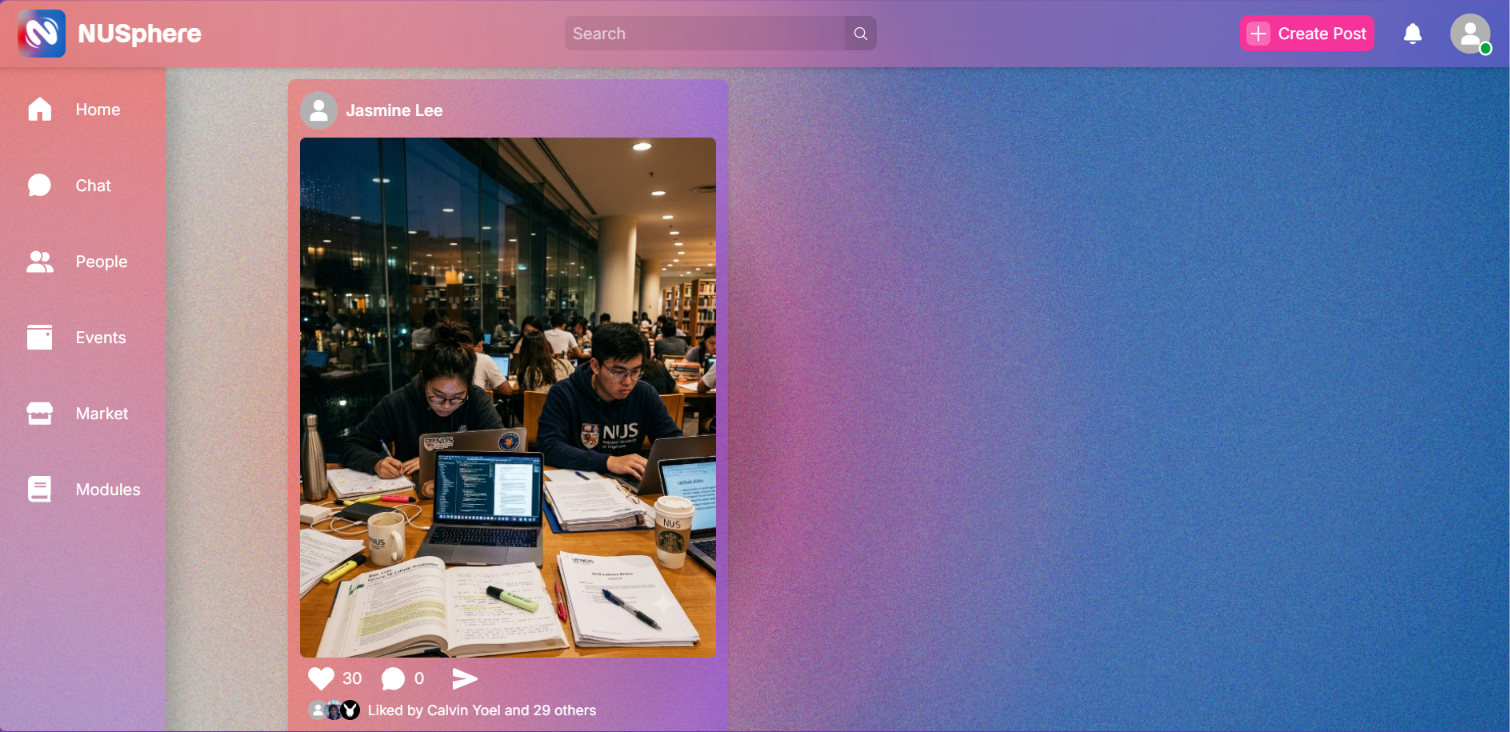
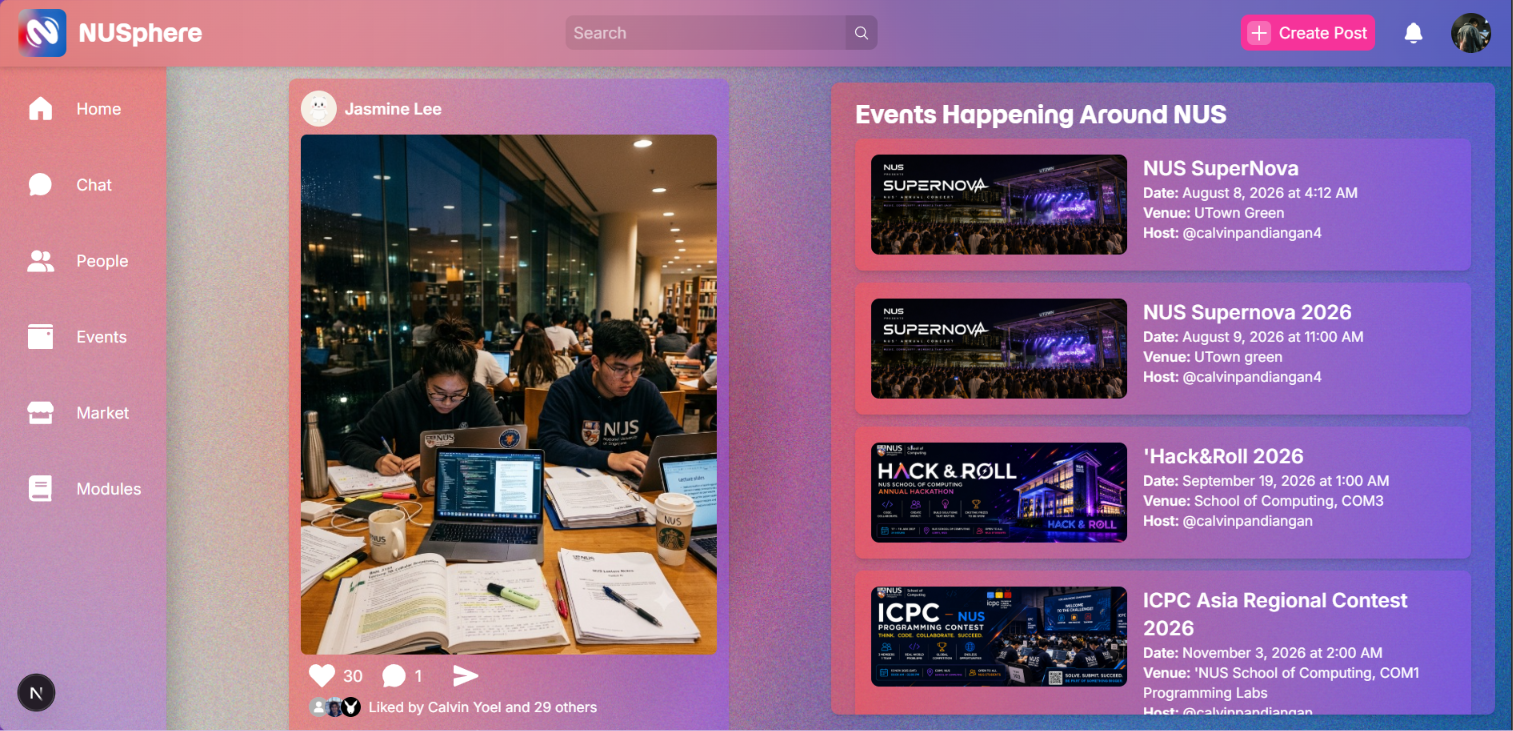
Added documentation

diff --git a/src/app/(main)/post/[postId]/Interactive.tsx b/src/app/(main)/post/[postId]/Interactive.tsx
@@ -64,7 +64,8 @@ export default function Interactive({imageUrl, likesCount, commentsCount, postId
             user_id: number,
             content: string,
             first_name: string,
-            last_name: string
+            last_name: string,
+            pfp_url: string
         }
         type postCommentData = {
             message: string,
@@ -76,7 +77,7 @@ export default function Interactive({imageUrl, likesCount, commentsCount, postId
         if (postCommentData?.message != undefined && postCommentData.message == "Comment successfully posted") {
             const commentReturn: postComment = postCommentData?.comment;
             const commentState: commentData = {id: commentReturn?.id, post_id: commentReturn?.post_id, 
-                user_id: commentReturn?.user_id, content: commentReturn?.content, first_name: commentReturn?.first_name, last_name: commentReturn?.last_name, pfp_url: imageUrl};
+                user_id: commentReturn?.user_id, content: commentReturn?.content, first_name: commentReturn?.first_name, last_name: commentReturn?.last_name, pfp_url: commentReturn?.pfp_url};
 
             if (textAreaRef?.current?.value != undefined) {
                 textAreaRef.current.value = "";

diff --git a/README.md b/README.md
@@ -31,7 +31,7 @@ Users can create listings for new or used everyday university items on the marke
 Users can join dedicated discussion spaces for each module to ask questions, share notes, and discuss lectures, tutorials, and exams with others taking the same course.
 
 ## Timeline
-Feature 5, 6, 7 will be completed by Milestone 3 or Splashdown.
+Final UI/UX Polishing and proper backend logic refurnishing will be done before Splashdown.
 
 ## Tech Stack
 1. Frontend: Next.js/React deployed with Vercel
@@ -93,14 +93,226 @@ NUSphere follows a `Feature Branching Strategy`, where each new feature or bug f
 ![Create Event Page](./screenshots/Create-events.png)
 ### Event Attendance
 ![Event Attendance Page](./screenshots/events-attendance.png)
+## Modules Page
+![Modules Page](./screenshots/Modules-page.png)
+## Modules Thread Page
+![Modules Thread Page](./screenshots/Module-thread.png)
+## Thread Reply
+![Thread Reply](./screenshots/Thread.png)
+## Create Thread
+![Create Thread](./screenshots/Create-thread.png)
+<br>
+<br>
+# NUSphere Backend
+
+## Folder structure
+
+```text
+src/
+  app.js                 # Express app setup and route mounting
+  server.js              # Application entry point
+  controllers/           # Request handlers for each feature
+  middleware/            # Validation and auth middleware
+  routes/                # API route definitions
+  services/              # Business logic for each feature
+  db/                    # Database connection setup
+  utils/                 # Shared helper functions
+  socket/                # Socket.IO-related code
+tests/                   # Test files and test helpers
+```
+
+## API documentation
+
+All protected endpoints require a valid authentication token in the request cookie unless noted otherwise.
+
+### Authentication
+- POST /auth/login: Log in a user with a username and password.
+- POST /auth/signup/create-account: Create a new account.
+- POST /auth/signup/edit-account-details: Save additional profile details for the authenticated user.
+
+### Users
+- GET /users/username/:username: Get a user profile by username.
+- GET /users/id/:userId: Get a user profile by user ID.
+- GET /users: Search or query users.
+
+### Posts
+- POST /posts: Create a new post with an image and optional caption.
+- GET /posts/feed: Get the feed of posts for the authenticated user.
+- GET /posts/username/:username: Get posts created by a specific username.
+- GET /posts/id/:userId: Get posts created by a specific user ID.
+- GET /posts/:postId: Get details for one post.
+- POST /posts/:postId/likes: Like a post.
+- GET /posts/:postId/likes: Check whether the current user liked a post.
+
+### Comments
+- GET /comments/:postId: Get comments for a specific post.
+- POST /comments/:postId: Add a comment to a post.
+
+### Events
+- POST /events: Create a new event with image and event details.
+- GET /events: Get a list of events.
+- GET /events/:id: Get details for one event.
+
+### Event attendance
+- GET /events/:id/attendance: Get attendance info for an event.
+- POST /events/:id/attendance: Register the current user for an event.
+- DELETE /events/:id/attendance: Remove the current user from an event.
+
+### Friend requests
+- GET /friend-requests: Get incoming friend requests.
+- DELETE /friend-requests/:senderId: Reject or remove a friend request.
+- POST /friend-requests/:receiverId: Send, accept, or manage a friend request.
+- GET /friend-requests/:receiverId: Check the current friend request status with a user.
+
+### Conversations
+- POST /conversations: Create or retrieve a conversation between users.
+
+### Modules
+- GET /modules/my: Get modules for the current user.
+- GET /modules/feed: Get module feed content.
+- GET /modules/:moduleCode: Get module information.
+- GET /modules/:moduleCode/threads: Get discussion threads for a module.
+- POST /modules/:moduleCode/threads: Create a thread in a module.
+- POST /modules/:moduleCode/threads/:threadId/replies: Add a reply to a thread.
+- GET /modules/:moduleCode/threads/:threadId/replies: Get replies for a thread.
+- POST /modules/:moduleCode/threads/:threadId/upvote: Upvote a thread.
+- POST /modules/:moduleCode/threads/:threadId/downvote: Downvote a thread.
+- DELETE /modules/:moduleCode/threads/:threadId/upvote: Remove an upvote.
+- DELETE /modules/:moduleCode/threads/:threadId/downvote: Remove a downvote.
+- POST /modules/:moduleCode/threads/:threadId/replies/:replyId/upvote: Upvote a reply.
+- DELETE /modules/:moduleCode/threads/:threadId/replies/:replyId/upvote: Remove a reply upvote.
+- POST /modules/:moduleCode/threads/:threadId/replies/:replyId/downvote: Downvote a reply.
+- DELETE /modules/:moduleCode/threads/:threadId/replies/:replyId/downvote: Remove a reply downvote.
+- POST /modules/:moduleCode/attendance: Mark attendance for a module.
+- GET /modules/:moduleCode/attendance: Get attendance for a module.
+- DELETE /modules/:moduleCode/attendance: Remove attendance for a module.
+
+## Database Documentation
+
+### Table: categories
+This table stores category labels that can be assigned to marketplace listings. It provides a simple reference list that supports the listings domain and helps keep category values consistent.
+
+### Table: comments
+This table stores comments made on posts. It links user-generated discussion content to both the relevant post and the commenting user.
+
+### Table: conversation_members
+This table records which users belong to each conversation and their membership role. It supports multi-user conversation membership rather than storing members only as a pair of participants.
+
+### Table: conversations
+This table stores direct conversations between two users. It defines the basic relationship between participants and prevents duplicate one-to-one conversation records.
+
+### Table: events
+This table stores event information created by users. It acts as the main record for an event and holds metadata such as title, description, location, timing, and a public URL.
+
+### Table: events_attendance
+This table records which users are attending which events. It is a join table that connects users to events in a many-to-many relationship.
+
+### Table: friend_requests
+This table stores potential friendship requests between users. It captures the sender, receiver, and the time the request was created.
+
+### Table: friends
+This table stores confirmed friendships between users. It uses a constrained pair representation so each friendship is recorded only once in a canonical order.
+
+### Table: likes
+This table records which users have liked which posts. It is a join table that captures the user-post interaction for likes.
+
+### Table: listings
+This table stores marketplace listings offered by sellers. It contains listing metadata and a status field that can be used to track whether an item is available, reserved, sold, or cancelled.
+
+### Table: market_conversations
+This table links marketplace conversations to specific listings. It helps model the relationship between a conversation and the listing being discussed within that conversation.
+
+### Table: messages
+This table stores individual messages sent inside conversations. It contains the message body, sender, and metadata needed to reconstruct conversation history.
+
+### Table: modules
+This table stores module records that group discussion threads and attendance. It provides a stable identifier and title for each module entry.
+
+### Table: modules_attendance
+This table records which users are attending which modules. It is a many-to-many association table between users and modules.
+
+### Table: posts
+This table stores posts created by users. It holds a media URL, caption, and counters that appear to track likes and comments attached to the post.
+
+### Table: replies
+This table stores replies made within discussion threads. It supports nested replies by allowing a reply to reference another reply, while also relating each reply to a user, module, and thread.
+
+### Table: reply_downvote
+This table records when a user downvotes a reply. It is a join table that links users to the replies they have downvoted.
+
+### Table: reply_upvote
+This table records when a user upvotes a reply. It is a join table that links users to the replies they have upvoted.
+
+### Table: reservation_requests
+This table records buyer requests for a listing and associates those requests with a conversation. It provides a workflow state for marketplace reservation requests.
+
+### Table: reservations
+This table represents active or historical reservations created from reservation requests. It tracks the reservation lifecycle and expiry time for a listing transaction.
+
+### Table: test
+This table appears to be a minimal placeholder table with no relationships or additional constraints. Its purpose is not defined beyond the schema itself.
+
+### Table: thread_upvote
+This table records when a user upvotes a discussion thread. It is a join table that links users to threads they upvoted.
+
+### Table: threads
+This table stores discussion threads within modules. It holds the thread content and supporting metadata such as category, week, and vote counters.
+
+### Table: users
+This table stores core user account information, including profile fields and authentication-related values. It forms the central entity for many of the other tables in the schema.
 
 ## Testing
+### Integration Testing (Jest + Supertest)
+
+#### Overview
+
+This test suite exercises the Express application through real HTTP requests using Supertest. The tests target the actual route, middleware, controller, database, and response flow without starting a real network server.
+
+#### Test strategy
+
+- Each test uses the Express app directly via Supertest.
+- The suite uses the dedicated test database connection from TEST_DATABASE_URL.
+- The database is reset before each test to keep the suite isolated and deterministic.
+- The tests verify both the HTTP response and the database state after each request.
+
+#### Covered areas
+
+| Area | Endpoint(s) | What is tested |
+| --- | --- | --- |
+| Authentication | POST /auth/login, POST /auth/signup/create-account | Successful login, unknown-user failure, malformed request handling, DB persistence for account creation |
+| Users | GET /users/:id, GET /users/username/:username | Authentication enforcement, successful profile lookup |
+| Posts | POST /posts | Successful post creation, invalid input without image |
+| Comments | POST /comments/:postId | Successful comment creation, missing comment validation |
+| Events | POST /events | Successful event creation, missing required fields |
+| Friend requests | POST /friend-requests/:receiverId | Successful request creation, invalid action handling |
+| Modules | POST /modules/:moduleCode/attendance | Successful attendance tracking, unknown module failure |
+
+#### Current status
+
+The suite was executed successfully against the test database.
+
+| Test file | Status |
+| --- | --- |
+| tests/auth.api.test.js | Passing |
+| tests/user.api.test.js | Passing |
+| tests/post.api.test.js | Passing |
+| tests/comment.api.test.js | Passing |
+| tests/event.api.test.js | Passing |
+| tests/friend.api.test.js | Passing |
+| tests/module.api.test.js | Passing |
+
+Test Suites: 7 passed, 7 total
+Tests:       16 passed, 16 total
+Snapshots:   0 total
+Time:        12.932 s
+
+
 ### Unit Testing
 For unit testing, Vitest was used to verify the business logic implemented in the backend. The test cases focused on validating individual service-layer functions in isolation by mocking database interactions, ensuring that the core application logic behaved correctly under both normal and exceptional conditions. 
 
 A total of 82 unit tests were executed across 31 test suites, with all tests passing successfully. These tests covered key backend functionalities, including user authentication, event management, conversations, comments, posts, friend requests, and user services.
 
-### Summary
+#### Summary
 
 | Metric | Result |
 |--------|--------|
@@ -110,7 +322,7 @@ A total of 82 unit tests were executed across 31 test suites, with all tests pas
 
 ---
 
-### auth.service.test.js
+#### auth.service.test.js
 
 | Test Case | Status | Duration |
 |-----------|--------|----------|
@@ -125,7 +337,7 @@ A total of 82 unit tests were executed across 31 test suites, with all tests pas
 
 ---
 
-### comment.service.test.js
+#### comment.service.test.js
 
 | Test Case | Status | Duration |
 |-----------|--------|----------|
@@ -138,7 +350,7 @@ A total of 82 unit tests were executed across 31 test suites, with all tests pas
 
 ---
 
-### conversation.service.test.js
+#### conversation.service.test.js
 
 | Test Case | Status | Duration |
 |-----------|--------|----------|
@@ -157,7 +369,7 @@ A total of 82 unit tests were executed across 31 test suites, with all tests pas
 
 ---
 
-### event.attendance.service.test.js
+#### event.attendance.service.test.js
 
 | Test Case | Status | Duration |
 |-----------|--------|----------|
@@ -173,7 +385,7 @@ A total of 82 unit tests were executed across 31 test suites, with all tests pas
 
 ---
 
-### event.service.test.js
+#### event.service.test.js
 
 | Test Case | Status | Duration |
 |-----------|--------|----------|
@@ -184,7 +396,7 @@ A total of 82 unit tests were executed across 31 test suites, with all tests pas
 
 ---
 
-### friendRequests.services.test.js
+#### friendRequests.services.test.js
 
 | Test Case | Status | Duration |
 |-----------|--------|----------|
@@ -209,7 +421,7 @@ A total of 82 unit tests were executed across 31 test suites, with all tests pas
 
 ---
 
-### post.service.test.js
+#### post.service.test.js
 
 | Test Case | Status | Duration |
 |-----------|--------|----------|
@@ -233,7 +445,7 @@ A total of 82 unit tests were executed across 31 test suites, with all tests pas
 
 ---
 
-### user.service.test.js
+#### user.service.test.js
 
 | Test Case | Status | Duration |
 |-----------|--------|----------|
